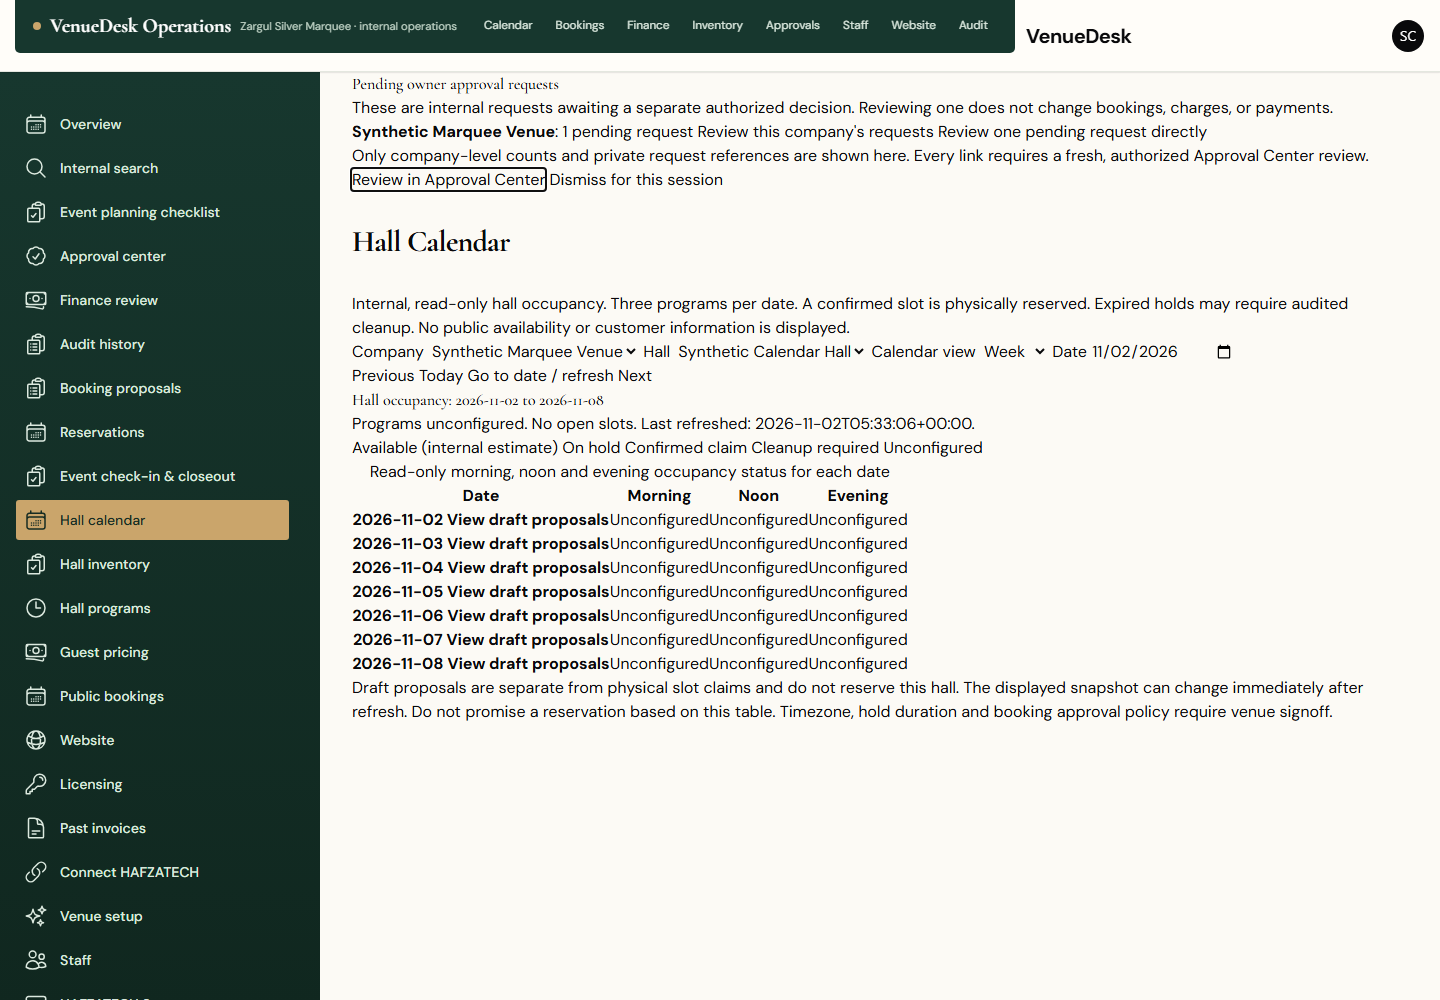
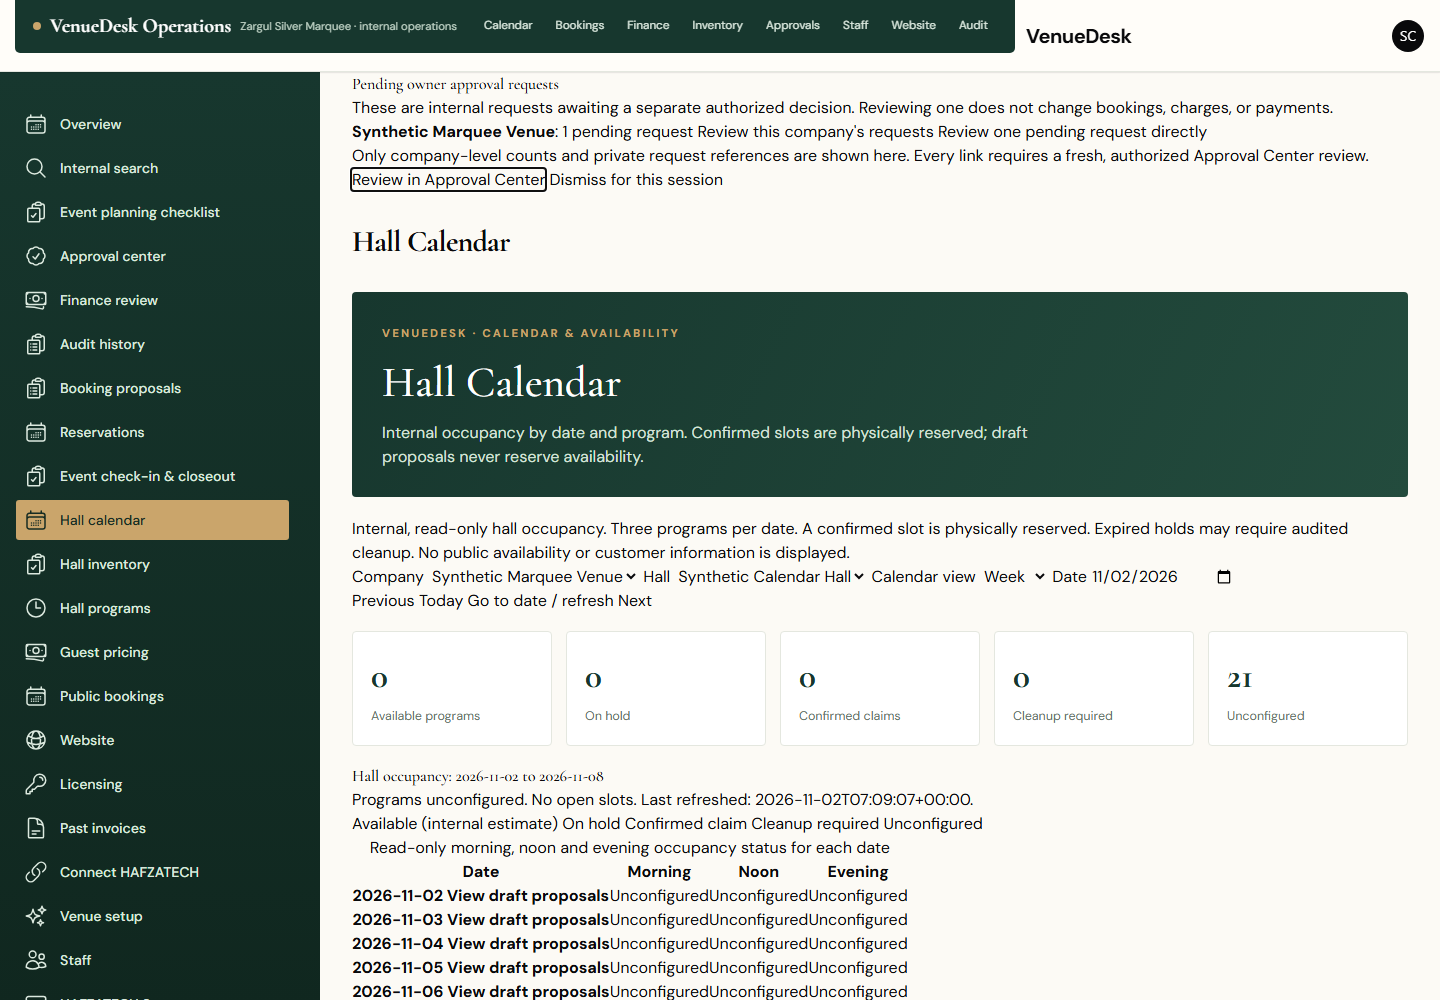
feat(ui): add VenueDesk calendar summary and module evidence

Changed region(s): [[0.2188, 0.279, 1.0, 0.744], [0.25, 0.775, 0.6875, 1.0]]

diff --git a/backend/resources/views/filament/pages/hall-calendar.blade.php b/backend/resources/views/filament/pages/hall-calendar.blade.php
@@ -1,5 +1,10 @@
 <x-filament-panels::page>
     <div class="space-y-6">
+        <section class="vd-hero">
+            <span class="eyebrow">VenueDesk · Calendar &amp; availability</span>
+            <h1>Hall Calendar</h1>
+            <p>Internal occupancy by date and program. Confirmed slots are physically reserved; draft proposals never reserve availability.</p>
+        </section>
         <p class="text-sm text-gray-600 dark:text-gray-300">
             Internal, read-only hall occupancy. Three programs per date. A confirmed slot is physically reserved.
             Expired holds may require audited cleanup. No public availability or customer information is displayed.
@@ -45,6 +50,22 @@
         </div>
 
         @if ($loadedCompanyId === $companyId && $loadedHallId === $hallId && $projection !== [])
+            @php
+                $slotCounts = ['available' => 0, 'hold' => 0, 'confirmed' => 0, 'cleanup_required' => 0, 'unconfigured' => 0];
+                foreach ($projection['days'] as $projectionDay) {
+                    foreach (['morning', 'noon', 'evening'] as $projectionProgram) {
+                        $slotCounts[$projectionDay['programs'][$projectionProgram]['status']] =
+                            ($slotCounts[$projectionDay['programs'][$projectionProgram]['status']] ?? 0) + 1;
+                    }
+                }
+            @endphp
+            <div class="vd-metrics" aria-label="Calendar occupancy summary">
+                <div class="vd-metric"><b>{{ $slotCounts['available'] }}</b><span>Available programs</span></div>
+                <div class="vd-metric"><b>{{ $slotCounts['hold'] }}</b><span>On hold</span></div>
+                <div class="vd-metric"><b>{{ $slotCounts['confirmed'] }}</b><span>Confirmed claims</span></div>
+                <div class="vd-metric"><b>{{ $slotCounts['cleanup_required'] }}</b><span>Cleanup required</span></div>
+                <div class="vd-metric"><b>{{ $slotCounts['unconfigured'] }}</b><span>Unconfigured</span></div>
+            </div>
             <section class="space-y-4" aria-label="Hall occupancy projection">
                 <h2 class="text-lg font-semibold">Hall occupancy: {{ $projection['fromDate'] }} to {{ $projection['toDate'] }}</h2>
                 <p class="text-sm">{{ $projection['configured'] ? 'Hall programs configured.' : 'Programs unconfigured. No open slots.' }}
